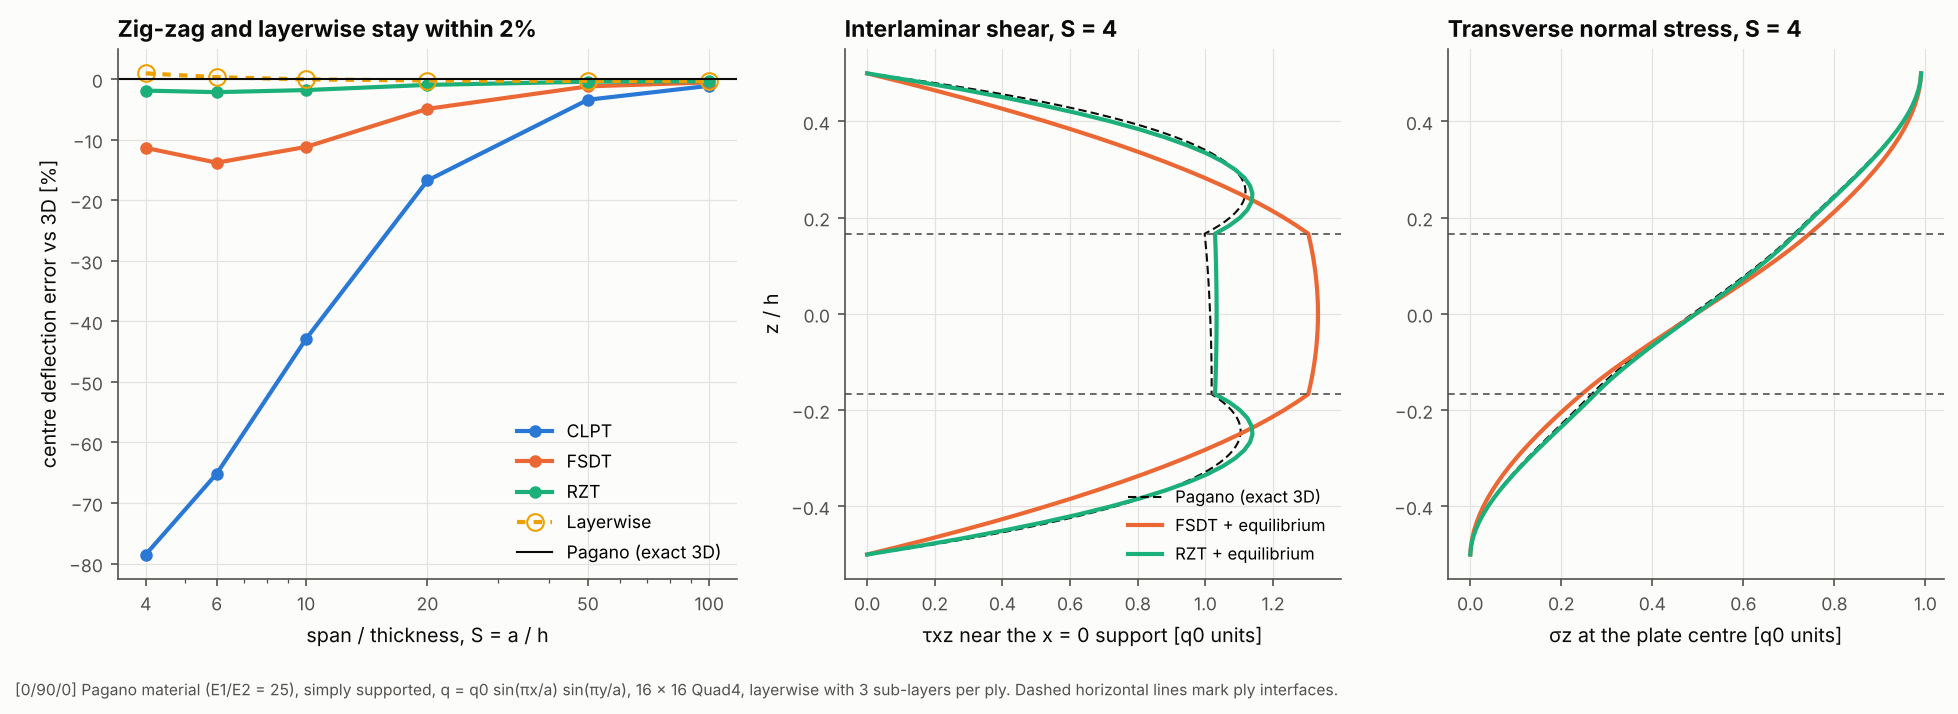
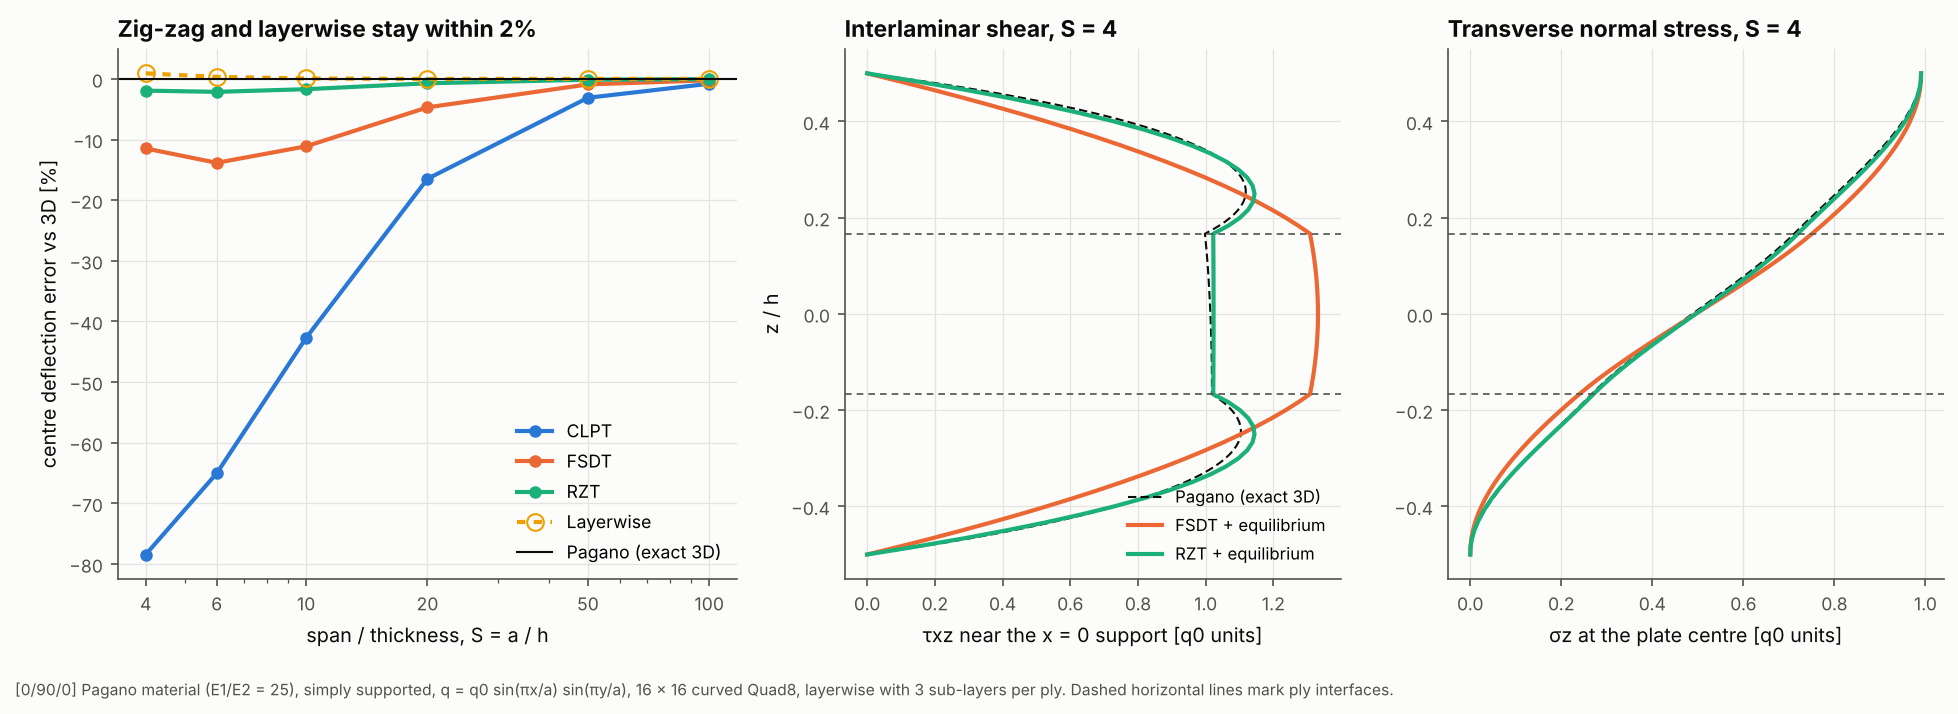
Make curved Quad8 the default element and fix its selective integration
The plate, panel, Gmsh and blade builders now default to quad8_curved
(FEAMesh.rectangular_plate stays a Quad4 helper). Gmsh 8-node quads read
from .msh files become curved Quad8 unless the importer says curved=False.

Curved Quad8 moved only the bare membrane term to the 2 x 2 rule and kept
the membrane-bending coupling of offset or unsymmetric laminates on 3 x 3,
so the element stiffness could turn indefinite: a coarse blade with +/-20
degree caps gave a negative GJ. The part moved to 2 x 2 is now the
generalised membrane strain e_m + A^-1 C_mr r, leaving a positive
semi-definite remainder on 3 x 3.

- Tests that rely on linear elements (edge-load lumping, rebuilt meshes,
  centroids on a line) name quad4; the rigid-body-mode test checks
  two-element meshes and documents the single quad's S8R-like mode.
- Examples 17, 19, 20, 21, 23, 24 and 25 re-run; 08 stays on Quad4
  because it reads Kt from nodal averages.

diff --git a/src/laminate_modelling_package/laminate_gmsh.py b/src/laminate_modelling_package/laminate_gmsh.py
@@ -14,10 +14,10 @@ Physical groups carry the model data:
 Supported surface elements are 3-node triangles (Tri3), 6-node triangles (Tri6,
 curved), 4-node quads (Quad4) and 8-node serendipity quads (Quad8, ``Mesh.ElementOrder
 = 2`` with ``Mesh.SecondOrderIncomplete = 1``), in any mix. 8-node quads become flat
-Quad8 elements, or curved Quad8 shells with ``curved=True``. Gmsh puts second-order
+Quad8 elements with ``curved=False``, or curved Quad8 shells (the default). Gmsh puts second-order
 nodes on the CAD geometry, so the curved elements follow curved surfaces. The
-builders take ``element="quad4" | "tri3" | "quad8" | "quad8_curved" | "tri6" |
-"quad_dominant"`` and set the Gmsh options.
+builders take ``element="quad8_curved"`` (the default) ``| "quad4" | "tri3" | "quad8" |
+"tri6" | "quad_dominant"`` and set the Gmsh options.
 """
 
 from __future__ import annotations
@@ -135,7 +135,7 @@ class GmshMeshImporter:
         reversed, so pressure and the ply stack face a consistent side. Use
         ``None`` to keep Gmsh's orientation (for example on closed 3D surfaces).
     curved:
-        Build 8-node quads as curved Quad8 shells instead of flat Quad8.
+        Build 8-node quads as curved Quad8 shells (the default) instead of flat Quad8.
     """
 
     def __init__(
@@ -144,7 +144,7 @@ class GmshMeshImporter:
         kinematics: KinematicModel,
         default_laminate: Optional[Laminate] = None,
         reference_normal: Optional[Sequence[float]] = (0.0, 0.0, 1.0),
-        curved: bool = False,
+        curved: bool = True,
         **element_options,
     ):
         self.curved = bool(curved)
@@ -160,12 +160,15 @@ class GmshMeshImporter:
 
     # ----------------------------------------------------------------- entry points
     def from_file(
-        self, path: Union[str, Path], mesh_options: Optional[Mapping[str, float]] = None, element: str = "quad4"
+        self, path: Union[str, Path], mesh_options: Optional[Mapping[str, float]] = None,
+        element: Optional[str] = None,
     ) -> GmshMesh:
         """Read a ``.msh`` file, or open a geometry file (``.geo``, ``.step``, ...) and mesh it.
 
-        ``element`` picks the element family for geometry files; ``mesh_options``
-        overrides or adds Gmsh options.
+        ``element`` picks the element family for geometry files (curved Quad8 by
+        default); ``mesh_options`` overrides or adds Gmsh options. A ``.msh`` file keeps
+        its own elements, and its 8-node quads follow the importer's ``curved`` unless
+        ``element`` says otherwise.
         """
         path = Path(path)
         if not path.exists():
@@ -174,12 +177,13 @@ class GmshMeshImporter:
             gmsh.clear()
             gmsh.open(str(path))
             if path.suffix.lower() != ".msh":
+                element = element or "quad8_curved"
                 options = globals()["mesh_options"](element)
                 options.update(mesh_options or {})
                 for name, value in options.items():
                     gmsh.option.setNumber(name, value)
                 gmsh.model.mesh.generate(2)
-            return self.from_model(curved=True if element == "quad8_curved" else None)
+            return self.from_model(curved={"quad8_curved": True, "quad8": False}.get(element))
 
     def from_model(self, curved: Optional[bool] = None) -> GmshMesh:
         """Convert the mesh of the current Gmsh model (already generated) into an ``FEAMesh``.
@@ -303,7 +307,7 @@ class GmshPlateBuilder:
     ``bottom`` (y = 0), ``top`` (y = width), ``hole_1``, ``hole_2``, ... and
     ``plate`` (the whole surface, also the element set name). The element size
     shrinks to ``hole_size`` on the hole edges and grows to ``size`` over
-    ``transition`` hole radii. ``element`` chooses Quad4 (default), Tri3, Quad8, curved Quad8, Tri6
+    ``transition`` hole radii. ``element`` chooses curved Quad8 (default), Quad4, Tri3, flat Quad8, Tri6
     or a quad-dominant Quad4/Tri3 mix.
     """
 
@@ -315,7 +319,7 @@ class GmshPlateBuilder:
         size: Optional[float] = None,
         hole_size: Optional[float] = None,
         transition: float = 3.0,
-        element: str = "quad4",
+        element: str = "quad8_curved",
     ):
         self.element = element
         mesh_options(element)  # validates the choice
@@ -342,7 +346,7 @@ class GmshPlateBuilder:
             gmsh.model.mesh.generate(2)
             if save_msh is not None:
                 gmsh.write(str(save_msh))
-            return importer.from_model(curved=True if self.element == "quad8_curved" else None)
+            return importer.from_model(curved={"quad8_curved": True, "quad8": False}.get(self.element))
 
     def _geometry(self, gmsh) -> None:
         occ = gmsh.model.occ

diff --git a/tests/test_generality.py b/tests/test_generality.py
@@ -130,7 +130,8 @@ def test_layup_errors_and_uncovered_elements(cfrp, strip):
 
 
 def test_drape_fields_change_the_fibre_angle(cfrp):
-    named = RectangularPlateBuilder(0.1, 0.1, 2, 2).build_named(Laminate.from_angles(cfrp, [0], 1e-4), FSDTModel())
+    named = RectangularPlateBuilder(0.1, 0.1, 2, 2, element="quad4").build_named(
+        Laminate.from_angles(cfrp, [0], 1e-4), FSDTModel())
     mesh = named.mesh
     mesh.set_material_axis((1.0, 1.0, 0.0))  # element material axes at +45 degrees
     layup = Layup([
@@ -162,13 +163,30 @@ def test_ply_failure_reports_each_named_ply(cfrp, strip):
 # ---------------------------------------------------------------------------
 # Curved shells
 # ---------------------------------------------------------------------------
+def _assembled(mesh):
+    n = max(int(d) for e in mesh.elements for d in mesh.element_dofs(e)) + 1
+    K = np.zeros((n, n))
+    for e in mesh.elements:
+        d = mesh.element_dofs(e)
+        K[np.ix_(d, d)] += e.stiffness_matrix()
+    return K
+
+
 @pytest.mark.parametrize("element", ["quad8_curved", "tri6"])
-def test_curved_elements_have_exactly_six_rigid_body_modes(cfrp, element):
-    lam = Laminate.from_angles(cfrp, [0, 45, 90], 0.25e-3)
-    for builder in (RectangularPlateBuilder(0.05, 0.03, 1, 1, element=element),
-                    CylindricalPanelBuilder(0.1, 0.05, 1, 1, 0, 40, element=element)):
-        e = builder.build(lam, FSDTModel()).elements[0]
-        assert zero_modes(e.stiffness_matrix()) == 6
+@pytest.mark.parametrize("angles", [[0, 45, 90], [0, 90, 0]])
+def test_curved_elements_have_exactly_six_rigid_body_modes(cfrp, element, angles):
+    lam = Laminate.from_angles(cfrp, angles, 0.25e-3)
+    for builder in (RectangularPlateBuilder(0.05, 0.03, 2, 1, element=element),
+                    CylindricalPanelBuilder(0.1, 0.05, 2, 1, 0, 40, element=element)):
+        mesh = builder.build(lam, FSDTModel())
+        assert zero_modes(_assembled(mesh)) == 6
+    # One quad on its own: the 2 x 2 membrane rule leaves the serendipity quad's one
+    # non-communicable membrane mode (as in S8R); a second element, or full integration,
+    # removes it.
+    if element == "quad8_curved":
+        one = RectangularPlateBuilder(0.05, 0.03, 1, 1, element=element)
+        assert zero_modes(one.build(lam, FSDTModel()).elements[0].stiffness_matrix()) == 7
+        assert zero_modes(one.build(lam, FSDTModel(), integration="full").elements[0].stiffness_matrix()) == 6
 
 
 def scordelis_lo(element, n):

diff --git a/src/laminate_modelling_package/laminate_curved_shell.py b/src/laminate_modelling_package/laminate_curved_shell.py
@@ -21,9 +21,13 @@ director).
 
 Integration is selective. The quad integrates membrane and transverse shear with
 2 x 2 Gauss points, which removes membrane and shear locking in thin curved shells,
-and bending, drilling and enrichment terms with 3 x 3, which keeps exactly six
-rigid-body modes (``integration="selective"``, the default; ``"full"`` uses 3 x 3
-for the membrane too, ``"reduced"`` 2 x 2 for everything, as S8R). The triangle uses
+and bending, drilling and enrichment terms with 3 x 3 (``integration="selective"``,
+the default; ``"full"`` uses 3 x 3 for the membrane too, ``"reduced"`` 2 x 2 for
+everything, as S8R). The membrane part moved to 2 x 2 includes the membrane-bending
+coupling of offset or unsymmetric laminates, so the element stiffness stays positive
+semi-definite. A single selective quad keeps the serendipity quad's one
+non-communicable membrane mode, as S8R does; a mesh of two or more has exactly six
+rigid-body modes. The triangle uses
 a 6-point rule for bending and 3 points for membrane and shear.
 Results are sampled at the 2 x 2 points (quad) or the 3 points (triangle).
 
@@ -216,10 +220,19 @@ class CurvedShellElement(ShellElement):
         K = super().local_stiffness_matrix().copy()
         full, reduced = self.stiffness_rule(), self.membrane_rule()
         if reduced != full:
-            A = self.section.C_ee[:3, :3]
+            # The section energy splits into two non-negative parts,
+            #   e^T C e = m^T A m + r^T (C_rr - C_rm A^-1 C_mr) r,   m = e_m + A^-1 C_mr r,
+            # with e_m the membrane strains and r the rest (curvatures, enrichment). Only
+            # the first part moves to the reduced rule. Swapping the bare membrane term
+            # instead leaves the membrane-bending coupling of offset or unsymmetric
+            # laminates on the full rule, and the element stiffness can turn indefinite.
+            C = self.section.C_ee
+            A = C[:3, :3]
+            G = np.linalg.solve(A, C[:3, 3:])
             for rule, sign in ((full, -1.0), (reduced, 1.0)):
                 for xi, eta, w in rule:
-                    B_m = self.in_plane_operator(xi, eta)[:3]
+                    B_e = self.in_plane_operator(xi, eta)
+                    B_m = B_e[:3] + G @ B_e[3:]
                     K += sign * (B_m.T @ A @ B_m) * (w * self._point(xi, eta)["detJ"])
         self._K_local = 0.5 * (K + K.T)
         return self._K_local

diff --git a/src/laminate_modelling_package/laminate_mesh_builders.py b/src/laminate_modelling_package/laminate_mesh_builders.py
@@ -4,9 +4,9 @@ Builders create the nodes and elements of simple geometries and record named nod
 sets for the edges, so boundary conditions and line loads can be applied by name.
 General geometry is meshed with Gmsh (``laminate_gmsh``).
 
-``element`` selects the element type: ``"quad4"`` (default), ``"tri3"`` (each cell
-split along its diagonal), ``"quad8"`` (flat 8-node), ``"quad8_curved"`` (curved
-8-node shell) or ``"tri6"`` (curved 6-node triangles). Quadratic elements put their
+``element`` selects the element type: ``"quad8_curved"`` (curved 8-node shell, the
+default), ``"quad4"``, ``"tri3"`` (each cell split along its diagonal), ``"quad8"``
+(flat 8-node) or ``"tri6"`` (curved 6-node triangles). Quadratic elements put their
 mid-side nodes on the exact geometry, so the curved elements follow it.
 """
 
@@ -134,7 +134,7 @@ class RectangularPlateBuilder:
     nx: int
     ny: int
     origin: Sequence[float] = (0.0, 0.0, 0.0)
-    element: str = "quad4"
+    element: str = "quad8_curved"
 
     def build_named(self, laminate: Laminate, kinematics: KinematicModel, **element_options) -> NamedMesh:
         x0, y0, z0 = (list(self.origin) + [0.0, 0.0, 0.0])[:3]
@@ -164,7 +164,7 @@ class CylindricalPanelBuilder:
     n_hoop: int
     phi_start: float = 0.0
     phi_end: float = 90.0
-    element: str = "quad4"
+    element: str = "quad8_curved"
 
     def build_named(self, laminate: Laminate, kinematics: KinematicModel, **element_options) -> NamedMesh:
         span = self.phi_end - self.phi_start

diff --git a/src/laminate_modelling_package/laminate_blade.py b/src/laminate_modelling_package/laminate_blade.py
@@ -220,8 +220,10 @@ class BladeBuilder:
     n_span:
         Elements along the span (an int), or increasing span fractions 0..1.
     element:
-        ``"quad4"`` (default), ``"quad8"`` or ``"quad8_curved"``. Quadratic elements
-        put their mid-side nodes on the airfoil surface.
+        ``"quad8_curved"`` (default), ``"quad8"`` or ``"quad4"``. Quadratic elements
+        put their mid-side nodes on the airfoil surface. Flat facets (``"quad4"``,
+        ``"quad8"``) under-predict the torsional stiffness of thick-walled sections
+        with offset skins, so keep the default where torsion matters.
     trailing_edge:
         ``"auto"`` joins the surfaces at a sharp trailing edge and adds a flat
         ``te_web`` across a blunt one; ``"web"`` always adds it.
@@ -239,7 +241,7 @@ class BladeBuilder:
         regions: Sequence[SkinRegion],
         webs: Sequence[ShearWeb] = (),
         n_span: Union[int, Sequence[float]] = 10,
-        element: str = "quad4",
+        element: str = "quad8_curved",
         skin_reference: str = "outer",
         trailing_edge: str = "auto",
         te_web_elements: int = 2,

diff --git a/examples/23_blade_segment/blade_segment.py b/examples/23_blade_segment/blade_segment.py
@@ -231,7 +231,7 @@ def main():
     ax2.grid(axis="x", visible=False)
     ax2.set_ylim(0.0, 1.3 * np.nanmax(faces + core))
     ax2.legend(loc="upper left", ncol=2)
-    fig.text(0.0, -0.05, f"NACA 4421, {CHORD:g} m chord, {LENGTH:g} m, Quad4 FSDT, {N_SPAN} elements along the span. "
+    fig.text(0.0, -0.05, f"NACA 4421, {CHORD:g} m chord, {LENGTH:g} m, curved Quad8 FSDT, {N_SPAN} elements along the span. "
              f"E-glass/epoxy faces [±45/0], PVC foam 10 mm (LE) and 15 mm (TE), caps [±45/16 x 1 mm UD/∓45], "
              f"webs [±45]4. Suction {Q_SUCTION / 1e3:g} kPa, pressure {Q_PRESSURE / 1e3:g} kPa, edgewise gravity, "
              f"tip shear ({TIP_FORCE[0] / 1e3:g}, {TIP_FORCE[1] / 1e3:g}) kN and {TIP_TORQUE / 1e3:g} kN m through RBE3.",

diff --git a/examples/21_spar_cap_ply_drops/spar_cap_ply_drops.py b/examples/21_spar_cap_ply_drops/spar_cap_ply_drops.py
@@ -144,7 +144,7 @@ def main():
     ax2.set_title("Worst index of each named ply", loc="left")
     ax2.grid(axis="x", visible=False)
     fig.text(0.0, -0.05, f"Root 1.2 m NACA 0024 to tip 0.6 m NACA 0018, −6° twist, {LENGTH:g} m, {N_SPAN} elements along the span, "
-             f"Quad4 FSDT. E-glass/epoxy: skins [±45/0/∓45], caps [±45 / {FULL_PLIES}–20 x 1 mm UD / ∓45, 0], webs [±45]s. "
+             f"curved Quad8 FSDT. E-glass/epoxy: skins [±45/0/∓45], caps [±45 / {FULL_PLIES}–20 x 1 mm UD / ∓45, 0], webs [±45]s. "
              f"Flap pressure 0 to {Q_TIP / 1e3:g} kPa on the pressure side; root clamped.", fontsize=7.5, color=TEXT_SECONDARY)
     fig.tight_layout()
     save(fig, __file__, "spar_cap_ply_drops.png")

diff --git a/examples/20_blade_beam_properties/blade_beam_properties.py b/examples/20_blade_beam_properties/blade_beam_properties.py
@@ -120,7 +120,7 @@ def main():
     ax2.set_xlabel("cap fibre angle θ [deg]")
     ax2.set_ylabel("S₁₄ / √(S₁₁ S₄₄)  (flap-twist)")
     ax2.set_title("Bend-twist coupling", loc="left")
-    fig.text(0.0, -0.05, f"NACA 0024, chord {CHORD:g} m, {LENGTH:g} m segment, {N_SPAN} elements along the span, Quad4 FSDT. "
+    fig.text(0.0, -0.05, f"NACA 0024, chord {CHORD:g} m, {LENGTH:g} m segment, {N_SPAN} elements along the span, curved Quad8 FSDT. "
              "Skins [0/±45]s E-glass 3 mm; caps 16 x 0.5 mm T300/5208 at +θ (suction) / −θ (pressure), 18-48% chord; "
              "webs [±45]s E-glass at 18% and 48%.", fontsize=7.5, color=TEXT_SECONDARY)
     fig.tight_layout()

diff --git a/examples/19_load_combinations/load_combinations.py b/examples/19_load_combinations/load_combinations.py
@@ -147,7 +147,7 @@ def main():
     ax2.set_title(f"'{order[int(np.argmax(values))]}' governs", loc="left")
     ax2.grid(axis="x", visible=False)
     fig.text(0.0, -0.04, f"[0/45/-45/90/0]2s T300/5208 (5 mm), {SPAN * 1e3:.0f} x {CHORD * 1e3:.0f} mm, clamped root, "
-             f"strut k = {STRUT_K / 1e3:.0f} kN/m at mid-span, {NX} x {NY} Quad4, FSDT. Lift p = {P0 / 1e3:.0f} kPa "
+             f"strut k = {STRUT_K / 1e3:.0f} kN/m at mid-span, {NX} x {NY} curved Quad8, FSDT. Lift p = {P0 / 1e3:.0f} kPa "
              f"x sqrt(1 - (x/L)²), tip load {TIP:.0f} N, cold = -50 K.", fontsize=7.5, color=TEXT_SECONDARY)
     fig.tight_layout()
     save(fig, __file__, "load_combinations.png")

diff --git a/examples/08_open_hole_gmsh/open_hole_gmsh.py b/examples/08_open_hole_gmsh/open_hole_gmsh.py
@@ -81,7 +81,9 @@ def solve(gm):
 
 def main():
     card = create_default_library().get("T300/5208")
-    builder = GmshPlateBuilder(L, W, [CircularHole(L / 2, W / 2, R)], size=0.012, hole_size=0.0003, transition=6)
+    # Quad4: Kt is read from nodal averages at the hole, which suits linear elements (example 18 compares types)
+    builder = GmshPlateBuilder(L, W, [CircularHole(L / 2, W / 2, R)], size=0.012, hole_size=0.0003, transition=6,
+                               element="quad4")
     results = {}
     print(f"{'laminate':<16}{'Kt FE':>8}{'Kt Lekhnitskii':>16}{'difference':>12}")
     for name, angles in LAMINATES.items():

diff --git a/tests/test_gmsh.py b/tests/test_gmsh.py
@@ -39,7 +39,8 @@ def tension(gm, length, nx=1.0e5):
 
 def test_plain_plate_is_all_quads_with_named_edges(cfrp):
     lam = Laminate.from_angles(cfrp, [0, 90, 90, 0], 0.25e-3)
-    gm = GmshPlateBuilder(0.1, 0.05, size=0.01).build(GmshMeshImporter(lam, FSDTModel()))
+    # tension() lumps the edge load as for linear elements
+    gm = GmshPlateBuilder(0.1, 0.05, size=0.01, element="quad4").build(GmshMeshImporter(lam, FSDTModel()))
     mesh = gm.mesh
     assert {"left", "right", "bottom", "top", "plate"} <= set(gm.node_sets)
     assert len(gm.elements("plate")) == len(mesh.elements) > 0

diff --git a/examples/17_pagano_benchmark/pagano_benchmark.py b/examples/17_pagano_benchmark/pagano_benchmark.py
@@ -126,7 +126,7 @@ def main():
     ax1.set_ylabel("z / h")
     ax1.legend(loc="lower right", fontsize=8)
     fig.text(0.0, -0.04, f"[0/90/0] Pagano material (E1/E2 = 25), simply supported, q = q0 sin(πx/a) sin(πy/a), "
-             f"{N} x {N} Quad4, layerwise with 3 sub-layers per ply. Dashed horizontal lines mark ply interfaces.",
+             f"{N} x {N} curved Quad8, layerwise with 3 sub-layers per ply. Dashed horizontal lines mark ply interfaces.",
              fontsize=7.5, color=TEXT_SECONDARY)
     fig.tight_layout()
     save(fig, __file__, "pagano_benchmark.png")
